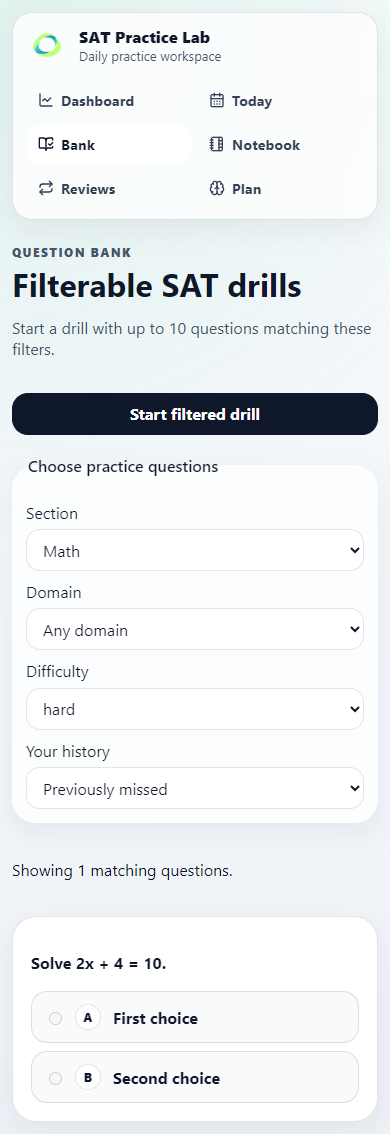
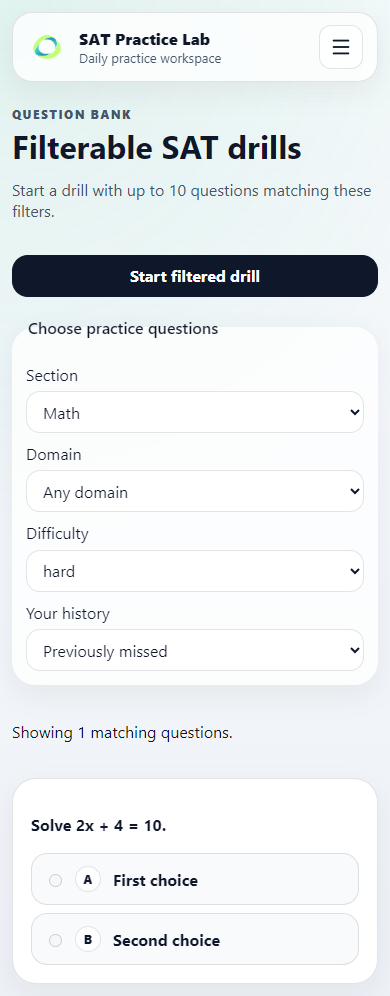
Collapse SAT practice navigation into an accessible mobile menu

diff --git a/scripts/sat-start-browser-check.js b/scripts/sat-start-browser-check.js
@@ -23,6 +23,7 @@ async(page)=>{
         return route.fulfill({status:failStart?503:200,json:failStart?{error:'Drill could not be started. Please retry.'}:{attempt:{id},questions:[question(2,'math')]}});
       }
       if(url.pathname.endsWith('/sat-practice/attempts/'+id))return route.fulfill({json:{attempt:{id,status:'in_progress',question_ids:[],answers:{}},questions:[]}});
+      if(url.pathname.endsWith('/sat-practice/notebook'))return route.fulfill({json:{items:[]}});
       return route.fulfill({json:{user:session.user,entitlements:[],effective_product_ids:['2cf7b1a7-4df9-4de8-99e8-5b9d5bb85010']}});
     }
     return url.origin===origin?route.continue():route.abort();
@@ -64,6 +65,34 @@ async(page)=>{
   checks.push({case:'bank-outage-clears-old-questions-and-recovers-with-retry',passed:true});
   for(const width of [320,390,1280]){await page.setViewportSize({width,height:900});assert(await page.evaluate(()=>document.documentElement.scrollWidth<=innerWidth),'Overflow at '+width);}
   await page.addScriptTag({path:'node_modules/axe-core/axe.min.js'});
+  const savedBankUrl=page.url();
+  await page.setViewportSize({width:390,height:900});
+  const menu=page.getByRole('button',{name:'Open menu',exact:true});
+  assert(await page.getByRole('navigation',{name:'SAT Practice',exact:true}).count()===0,'Collapsed navigation must not be exposed to assistive technology');
+  assert(await page.locator('header.top-nav').evaluate(header=>header.getBoundingClientRect().height)<110,'Mobile navigation must start compact');
+  await menu.focus();await page.keyboard.press('Enter');
+  const closeMenu=page.getByRole('button',{name:'Close menu',exact:true});
+  assert(await closeMenu.getAttribute('aria-expanded')==='true','Open menu must announce expanded state');
+  await page.keyboard.press('Tab');
+  assert(await page.getByRole('navigation',{name:'SAT Practice',exact:true}).getByRole('link',{name:'Dashboard',exact:true}).evaluate(link=>link===document.activeElement),'Keyboard should enter the disclosed links');
+  const menuViolations=await page.evaluate(async()=>(await axe.run('header.top-nav',{runOnly:{type:'tag',values:['wcag2a','wcag2aa']}})).violations.map(v=>v.id));
+  assert(menuViolations.length===0,'Menu accessibility: '+menuViolations.join(','));
+  await page.screenshot({path:'docs/customer-readiness/2026-10-08-sat-menu-open-390.png',fullPage:true});
+  await page.keyboard.press('Escape');
+  assert(await menu.getAttribute('aria-expanded')==='false'&&await menu.evaluate(button=>button===document.activeElement),'Escape must close the menu and return focus');
+  checks.push({case:'mobile-menu-keyboard-disclosure-escape-focus-and-accessibility',passed:true});
+  await menu.click();await page.getByRole('heading',{name:'Filterable SAT drills',exact:true}).click();
+  assert(await menu.getAttribute('aria-expanded')==='false','Outside click should dismiss mobile navigation');
+  await menu.click();await page.setViewportSize({width:1280,height:900});
+  assert(await page.getByRole('button',{name:'Open menu',exact:true}).count()===0,'Desktop must show links without a burger');
+  await page.setViewportSize({width:390,height:900});
+  assert(await menu.getAttribute('aria-expanded')==='false','Returning to mobile must start collapsed');
+  await menu.click();await page.getByRole('navigation',{name:'SAT Practice',exact:true}).getByRole('link',{name:'Notebook',exact:true}).click();
+  await page.waitForURL('**/notebook');await page.getByRole('button',{name:'Open menu',exact:true}).waitFor();
+  assert(await page.getByRole('navigation',{name:'SAT Practice',exact:true}).count()===0,'Navigation must close after route selection');
+  await page.goto(savedBankUrl);await page.getByText('Showing 1 matching questions.',{exact:true}).waitFor();
+  await page.addScriptTag({path:'node_modules/axe-core/axe.min.js'});
+  checks.push({case:'mobile-menu-outside-click-route-close-and-desktop-resize',passed:true});
   const violations=await page.evaluate(async()=>(await axe.run('main',{runOnly:{type:'tag',values:['wcag2a','wcag2aa']}})).violations.map(v=>v.id));assert(violations.length===0,'Bank accessibility: '+violations.join(','));
   await page.setViewportSize({width:390,height:900});await page.screenshot({path:'docs/customer-readiness/2026-10-08-sat-start-390.png',fullPage:true});
   await page.setViewportSize({width:1280,height:900});await page.screenshot({path:'docs/customer-readiness/2026-10-08-sat-start-1280.png',fullPage:true});
@@ -73,5 +102,5 @@ async(page)=>{
   assert(starts.at(-1).request_id===firstId,'Confirmed retry must reuse original identity');
   assert(await page.evaluate(()=>!Object.keys(sessionStorage).some(k=>k.startsWith('schood.sat-start.pending.'))),'Loaded owned drill clears pending start identity');
   checks.push({case:'successful-start-opens-the-confirmed-attempt',passed:true});
-  return {checkedAt:new Date().toISOString(),productionContacted:false,checks,accessibilityViolations:violations,bankRequests};
+  return {checkedAt:new Date().toISOString(),productionContacted:false,checks,accessibilityViolations:violations,menuAccessibilityViolations:menuViolations,bankRequests};
 }

diff --git a/apps/sat-practice/src/components/PracticeTopNav.tsx b/apps/sat-practice/src/components/PracticeTopNav.tsx
@@ -1,5 +1,6 @@
-import { BookOpenCheck, Brain, CalendarDays, Flame, LineChart, NotebookTabs, Repeat, Sparkles } from 'lucide-react';
-import { Link, NavLink } from 'react-router-dom';
+import { BookOpenCheck, Brain, CalendarDays, Flame, LineChart, Menu, NotebookTabs, Repeat, Sparkles, X } from 'lucide-react';
+import { useEffect, useId, useRef, useState } from 'react';
+import { Link, NavLink, useLocation } from 'react-router-dom';
 
 const navItems = [
   { to: '/dashboard', label: 'Dashboard', icon: LineChart },
@@ -10,8 +11,35 @@ const navItems = [
   { to: '/plan', label: 'Plan', icon: Brain },
 ] as const;
 
-export const PracticeTopNav = (props: { streakDays?: number; xp?: number }) => (
-  <header className="top-nav">
+export const PracticeTopNav = (props: { streakDays?: number; xp?: number }) => {
+  const [open, setOpen] = useState(false);
+  const panelId = useId();
+  const header = useRef<HTMLElement>(null), toggle = useRef<HTMLButtonElement>(null);
+  const { pathname } = useLocation();
+  useEffect(() => { setOpen(false); }, [pathname]);
+  useEffect(() => {
+    const viewport = window.matchMedia('(max-width: 980px)');
+    const resize = () => setOpen(false);
+    viewport.addEventListener('change', resize);
+    return () => viewport.removeEventListener('change', resize);
+  }, []);
+  useEffect(() => {
+    if (!open) return;
+    const outside = (event: PointerEvent) => {
+      if (event.target instanceof Node && !header.current?.contains(event.target)) setOpen(false);
+    };
+    document.addEventListener('pointerdown', outside);
+    return () => document.removeEventListener('pointerdown', outside);
+  }, [open]);
+  return <header className="top-nav" ref={header}
+    onKeyDown={event => {
+      if (event.key === 'Escape' && open) {
+        event.preventDefault();setOpen(false);toggle.current?.focus();
+      }
+    }}
+    onBlur={event => {
+      if (event.relatedTarget instanceof Node && !event.currentTarget.contains(event.relatedTarget)) setOpen(false);
+    }}>
     <Link to="/dashboard" className="brand">
       <img src="/schood-logo.png" alt="Schood" />
       <div>
@@ -19,11 +47,17 @@ export const PracticeTopNav = (props: { streakDays?: number; xp?: number }) => (
         <span>Daily practice workspace</span>
       </div>
     </Link>
+    <button type="button" className="nav-menu-toggle" ref={toggle}
+      aria-label={open ? 'Close menu' : 'Open menu'} aria-expanded={open} aria-controls={panelId}
+      onClick={() => setOpen(value => !value)}>
+      {open ? <X size={22} aria-hidden="true" /> : <Menu size={22} aria-hidden="true" />}
+    </button>
+    <div id={panelId} className={`nav-panel${open ? ' mobile-open' : ''}`}>
     <nav className="nav-links" aria-label="SAT Practice">
       {navItems.map((item) => {
         const Icon = item.icon;
         return (
-          <NavLink key={item.to} to={item.to} className={({ isActive }) => `nav-link${isActive ? ' active' : ''}`}>
+          <NavLink key={item.to} to={item.to} onClick={() => setOpen(false)} className={({ isActive }) => `nav-link${isActive ? ' active' : ''}`}>
             <Icon size={16} />
             <span>{item.label}</span>
           </NavLink>
@@ -34,5 +68,6 @@ export const PracticeTopNav = (props: { streakDays?: number; xp?: number }) => (
       {props.streakDays != null ? <span title="Current streak"><Flame size={16} />{props.streakDays}d</span> : null}
       {props.xp != null ? <span title="XP earned"><Sparkles size={16} />{props.xp} XP</span> : null}
     </div> : null}
-  </header>
-);
+    </div>
+  </header>;
+};

diff --git a/apps/sat-practice/src/index.css b/apps/sat-practice/src/index.css
@@ -81,7 +81,7 @@ a {
   top: 16px;
   z-index: 10;
   display: grid;
-  grid-template-columns: minmax(220px, 0.8fr) minmax(0, 1.6fr) auto;
+  grid-template-columns: minmax(220px, 0.8fr) minmax(0, 1.6fr);
   align-items: center;
   gap: 16px;
   max-width: 1180px;
@@ -120,6 +120,33 @@ a {
   gap: 6px;
   flex-wrap: wrap;
   justify-content: center;
+}
+
+.nav-panel {
+  display: flex;
+  align-items: center;
+  justify-content: flex-end;
+  gap: 16px;
+  min-width: 0;
+}
+
+.nav-menu-toggle {
+  display: none;
+  width: 44px;
+  height: 44px;
+  align-items: center;
+  justify-content: center;
+  border: 1px solid var(--line);
+  border-radius: 12px;
+  color: var(--ink);
+  background: var(--panel);
+  cursor: pointer;
+}
+
+.nav-menu-toggle:focus-visible,
+.nav-link:focus-visible {
+  outline: 2px solid var(--emerald);
+  outline-offset: 3px;
 }
 
 .nav-link {
@@ -712,11 +739,35 @@ textarea {
 
 @media (max-width: 980px) {
   .top-nav {
-    grid-template-columns: 1fr;
+    grid-template-columns: minmax(0, 1fr) 44px;
+    gap: 12px;
+  }
+
+  .nav-menu-toggle {
+    display: inline-flex;
+  }
+
+  .nav-panel {
+    display: none;
+    grid-column: 1 / -1;
+    align-items: stretch;
+    border-top: 1px solid var(--line);
+    padding-top: 12px;
+  }
+
+  .nav-panel.mobile-open {
+    display: grid;
+    gap: 12px;
+    justify-content: stretch;
   }
 
   .nav-links {
-    justify-content: flex-start;
+    display: grid;
+    grid-template-columns: repeat(2, minmax(0, 1fr));
+  }
+
+  .nav-link {
+    min-height: 44px;
   }
 
   .nav-metrics {

diff --git a/docs/sat-client-start-recovery-release.md b/docs/sat-client-start-recovery-release.md
@@ -6,7 +6,9 @@ Reviews, Notebook and Today distinguish failed loads from empty history, expose 
 
 Read calls and the already atomic start/submission commands have a thirty-second request deadline. This change does not shorten the legacy Tutor/provider operation or introduce a new deadline for other commands without replay protection. Tutor quota/provider hardening and atomic plan regeneration remain separate work.
 
-Validation: three actor/identity/storage tests pass and are included in the existing root SAT start test command. Nine actual bank browser scenarios and five Reviews/Notebook/Today recovery scenarios pass with synthetic APIs and external traffic blocked. They cover uncertain-start reloads, navigation acknowledgement, duplicate clicks, failed writes, stale bank responses, explicit empty selections and absence of invented activity. There are no unhandled recovery browser errors; the scoped bank accessibility check reports zero violations. Layout fits320/390/1280 widths;390/1280 screenshots were visually inspected. The SAT Practice build, secret guard, release guard and diff check pass. These fixtures do not qualify published teaching content or actual provider quality.
+The responsive header uses a44-pixel mobile menu button instead of displaying every link above the workspace. Hidden links stay outside the tab order and accessibility tree. Keyboard activation, Escape with focus return, outside clicks, route selection and viewport changes close or open the disclosure correctly. Desktop navigation remains visible.
+
+Validation: three actor/identity/storage tests pass and are included in the existing root SAT start test command. Eleven actual bank/menu browser scenarios and five Reviews/Notebook/Today recovery scenarios pass with synthetic APIs and external traffic blocked. They cover uncertain-start reloads, navigation acknowledgement, duplicate clicks, failed writes, stale bank responses, explicit empty selections, absence of invented activity and mobile-menu keyboard/route/resize behavior. There are no unhandled recovery browser errors; scoped bank and expanded-menu accessibility checks report zero violations. Layout fits320/390/1280 widths; collapsed/open mobile and desktop screenshots were visually inspected. The SAT Practice build, secret guard, release guard and diff check pass. These fixtures do not qualify published teaching content or actual provider quality.
 
 Backend baseline: main `76b17822286fa80ff0ad13bb2924093b2bfb6a1f`, SAT Edge18, migration `20261008110000_sat_attempt_atomic_start.sql`. Full CI and tracked Pages for PR205 succeeded. Eight downloaded Edge source files match the reviewed checkout;41 live dedicated-QA checks passed, including grant absence and logout. This PR changes no Edge Function, migration, workflow, content, price, secret or provider budget.
 
